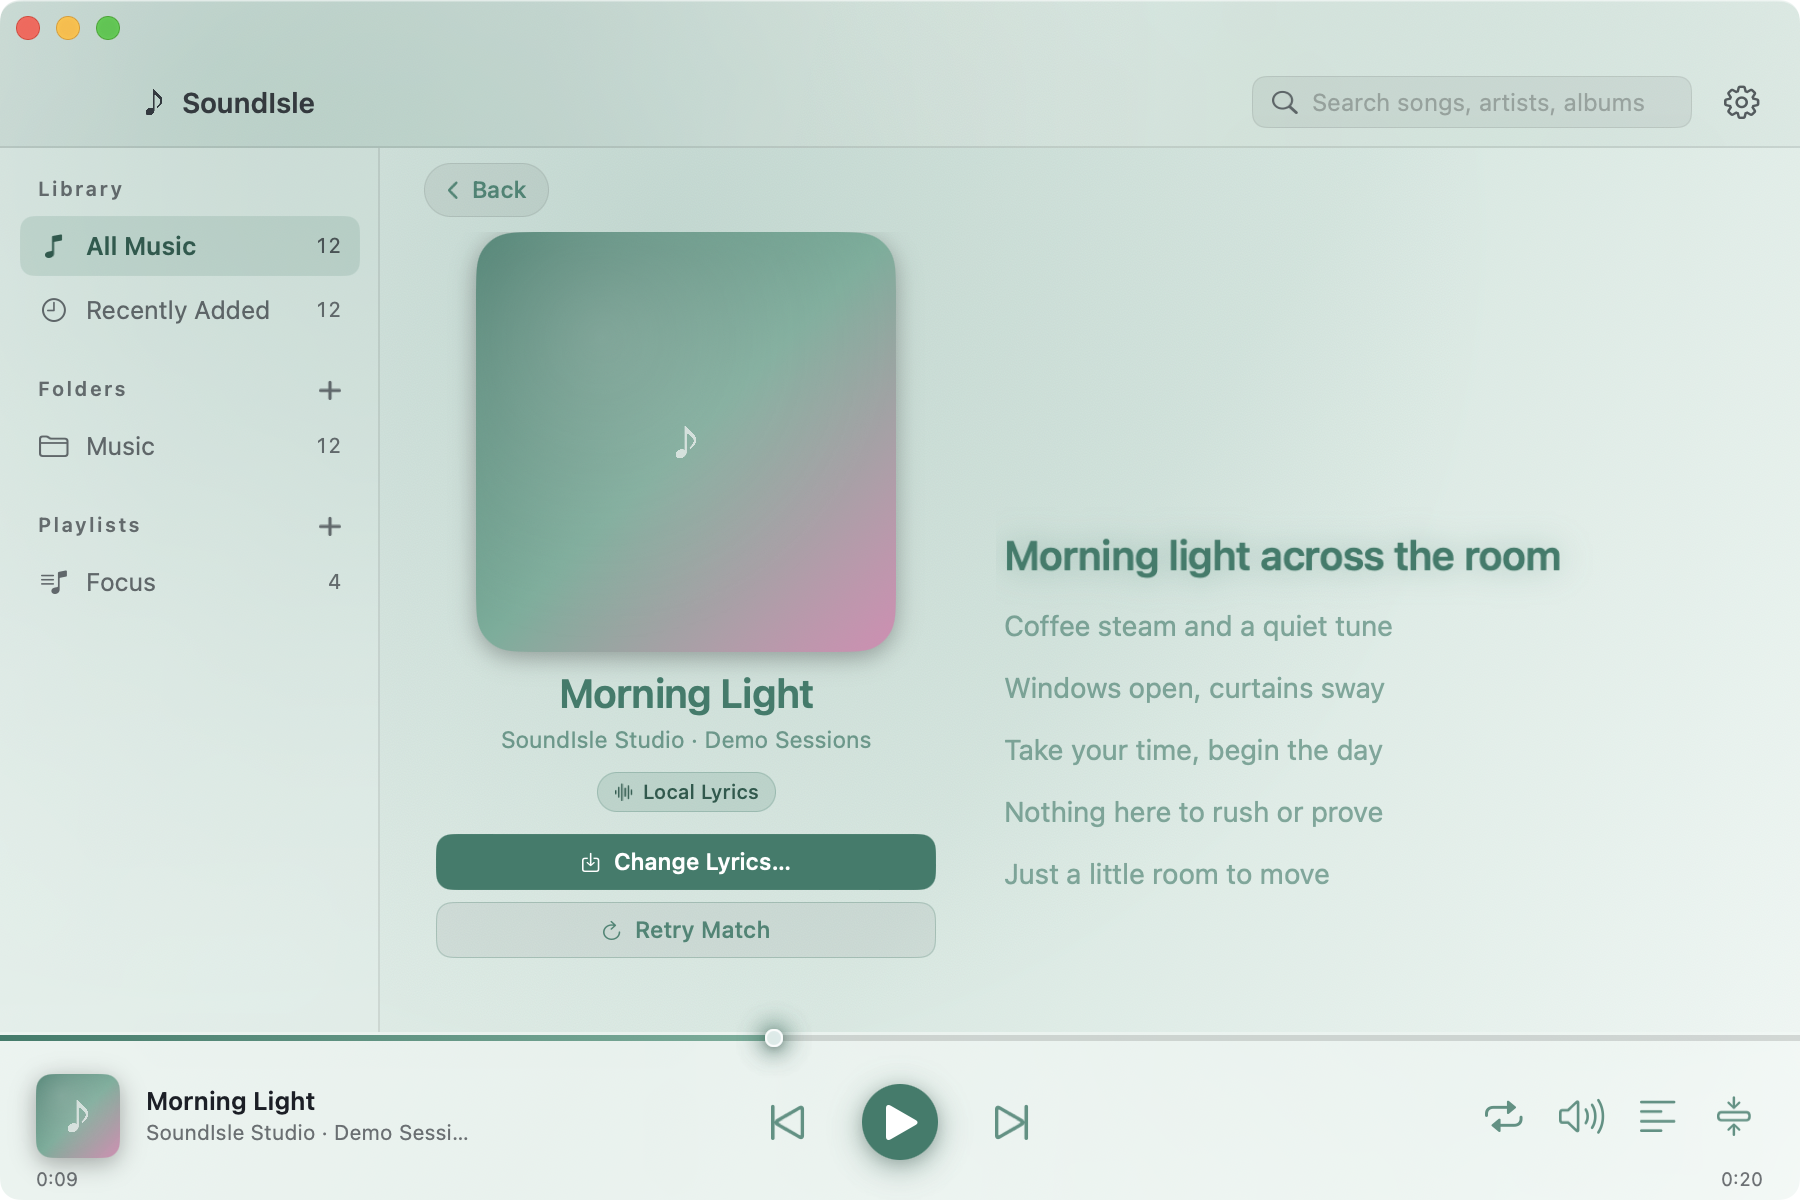
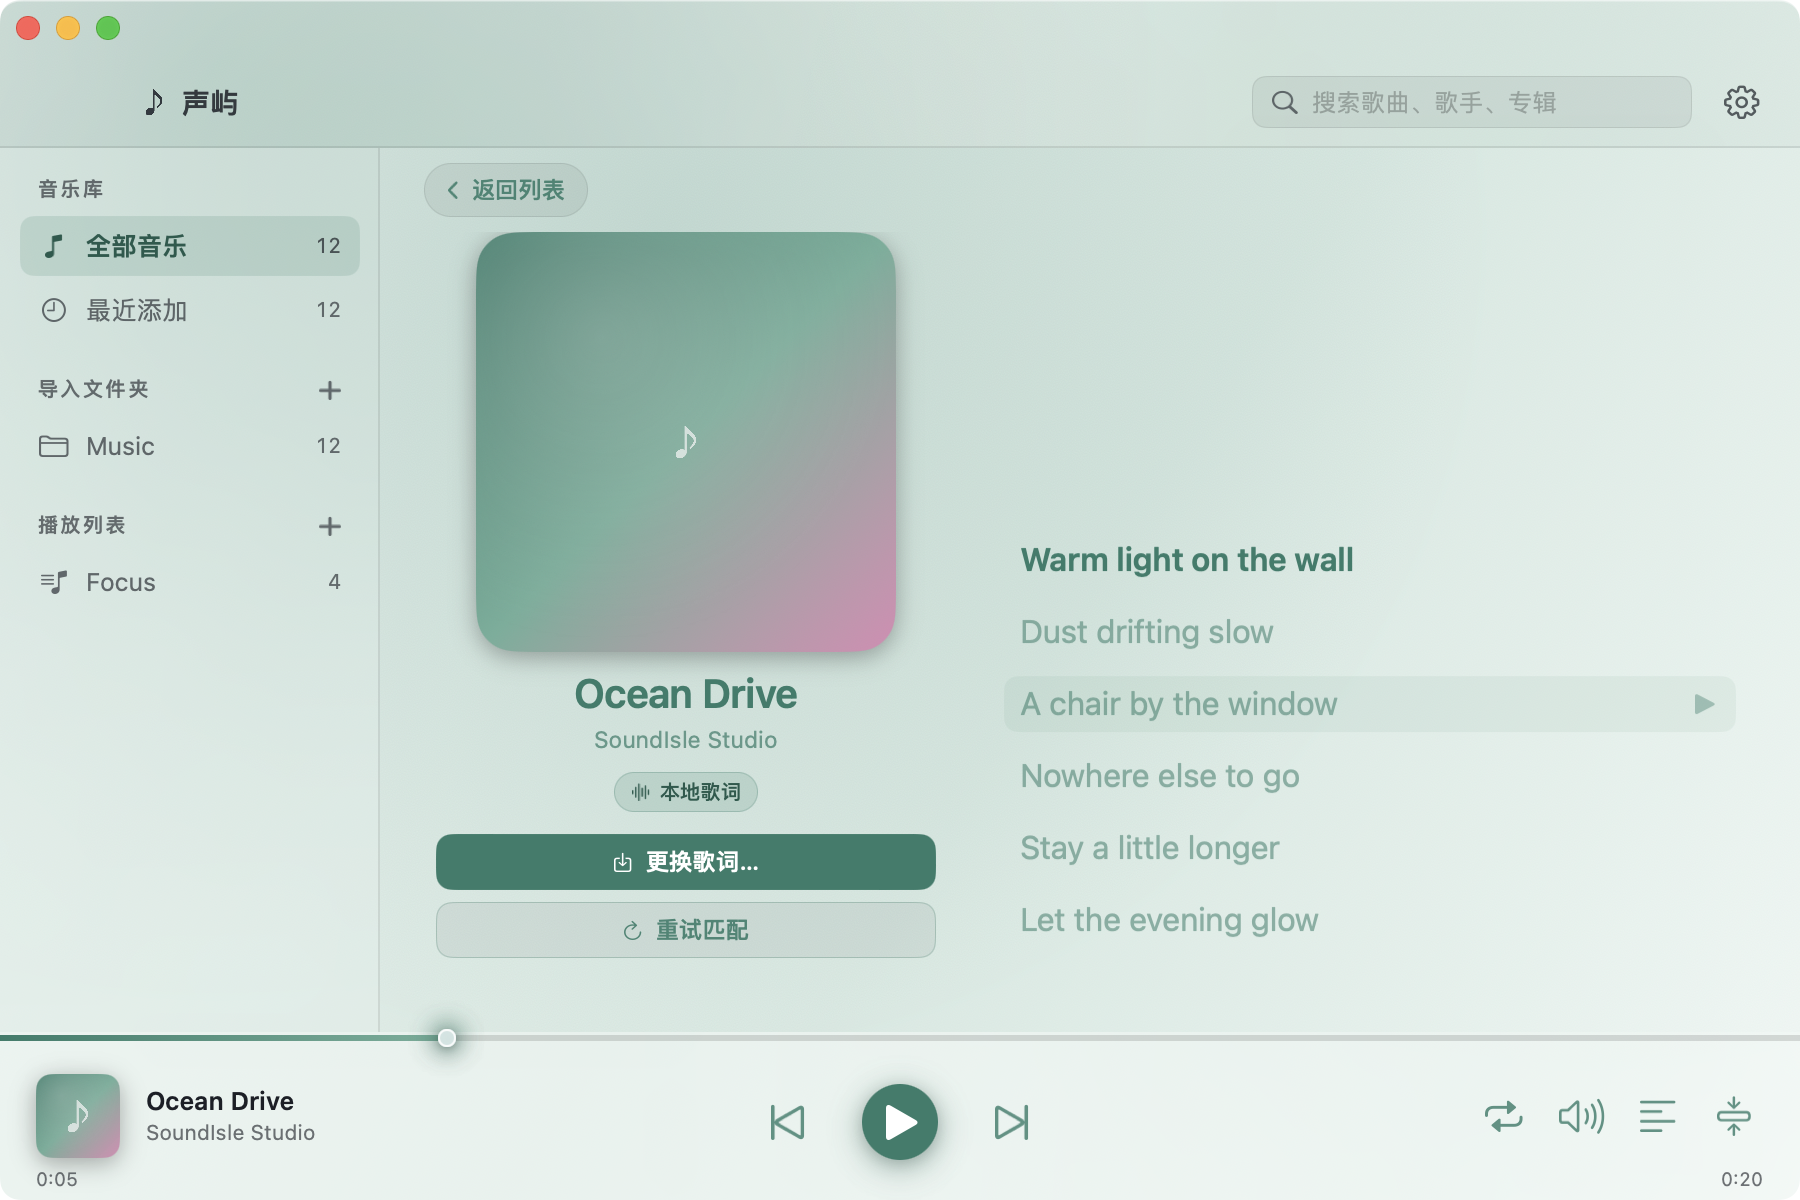
fix: unblock player bar clicks and refresh the lyrics screenshot
The transport view used a full-size frame above the left and right clusters, swallowing clicks on the cover, volume and other players. Removing it lets the ZStack centre the transport and restores those controls. README lyrics screenshots now show the 16pt lyric page with click-to-seek hover.

diff --git a/Sources/SoundIsle/Views/PlayerBarView.swift b/Sources/SoundIsle/Views/PlayerBarView.swift
@@ -49,9 +49,10 @@ struct PlayerBarView: View {
             .padding(.horizontal, 18)
             .frame(maxWidth: .infinity, maxHeight: .infinity)
 
-            // Centred in the window, nudged below the top-edge progress strip.
+            // Let the ZStack centre the transport. A full-size frame here
+            // used to sit above the left/right clusters and swallow their
+            // clicks (cover, volume, lyrics toggle).
             transport
-                .frame(maxWidth: .infinity, maxHeight: .infinity)
                 .padding(.top, 6)
         }
         .frame(height: 84)

diff --git a/README.en.md b/README.en.md
@@ -29,7 +29,7 @@ Lyrics float transparently over the desktop. Drag them, resize from the edge, or
 ### Lyrics page
 ![Lyrics page](docs/screenshots/lyrics-en.png)
 
-Click the cover in the player bar to switch between the track list and the full lyrics page.
+Click the cover in the player bar to switch between the track list and the full lyrics page. Clicking any synced line seeks to that line; hovering shows a clickable band and a play triangle at the trailing edge.
 
 ### Light and dark themes
 | Light | Dark |

diff --git a/README.md b/README.md
@@ -29,7 +29,7 @@
 ### 歌词页
 ![歌词页](docs/screenshots/lyrics-zh.png)
 
-点击播放条封面，即可在歌曲列表与歌词页之间切换。
+点击播放条封面，即可在歌曲列表与歌词页之间切换；点击任意一句歌词会直接跳到该句，悬停时出现可点击的色带与行尾播放箭头。
 
 ### 浅色与深色主题
 | 浅色 | 深色 |
